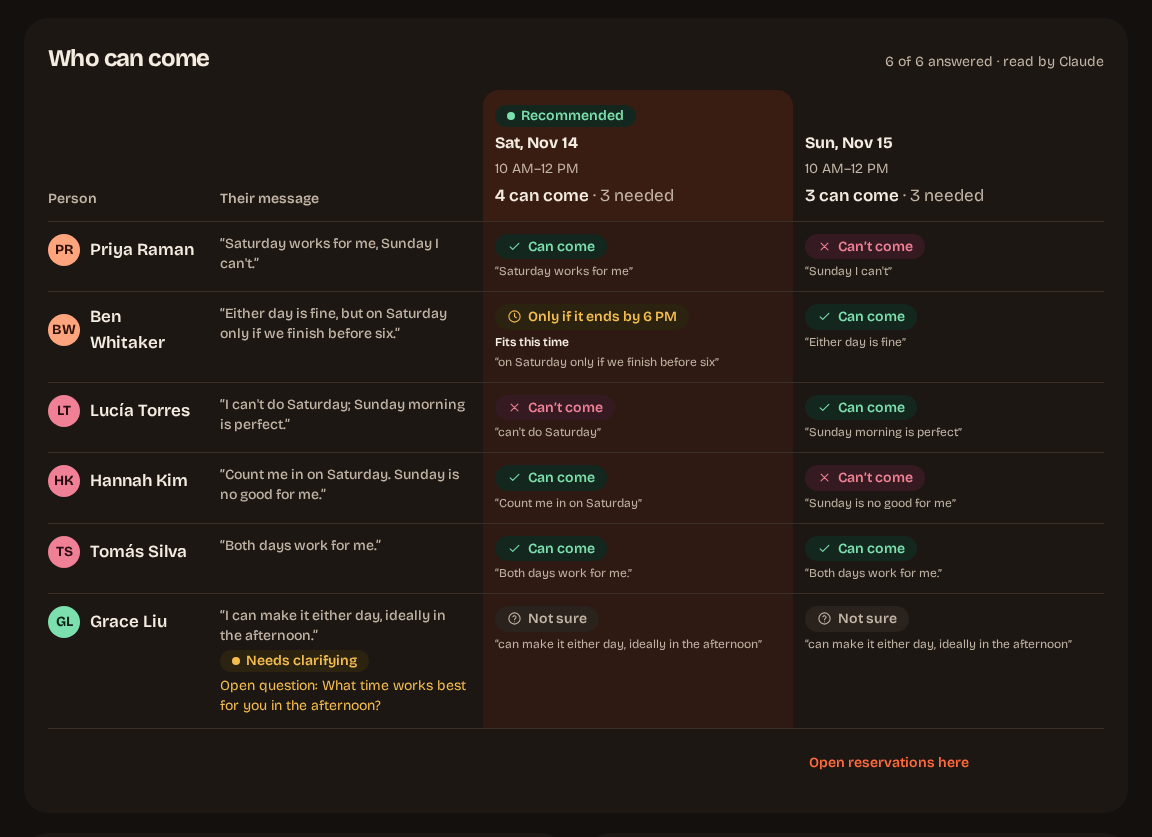
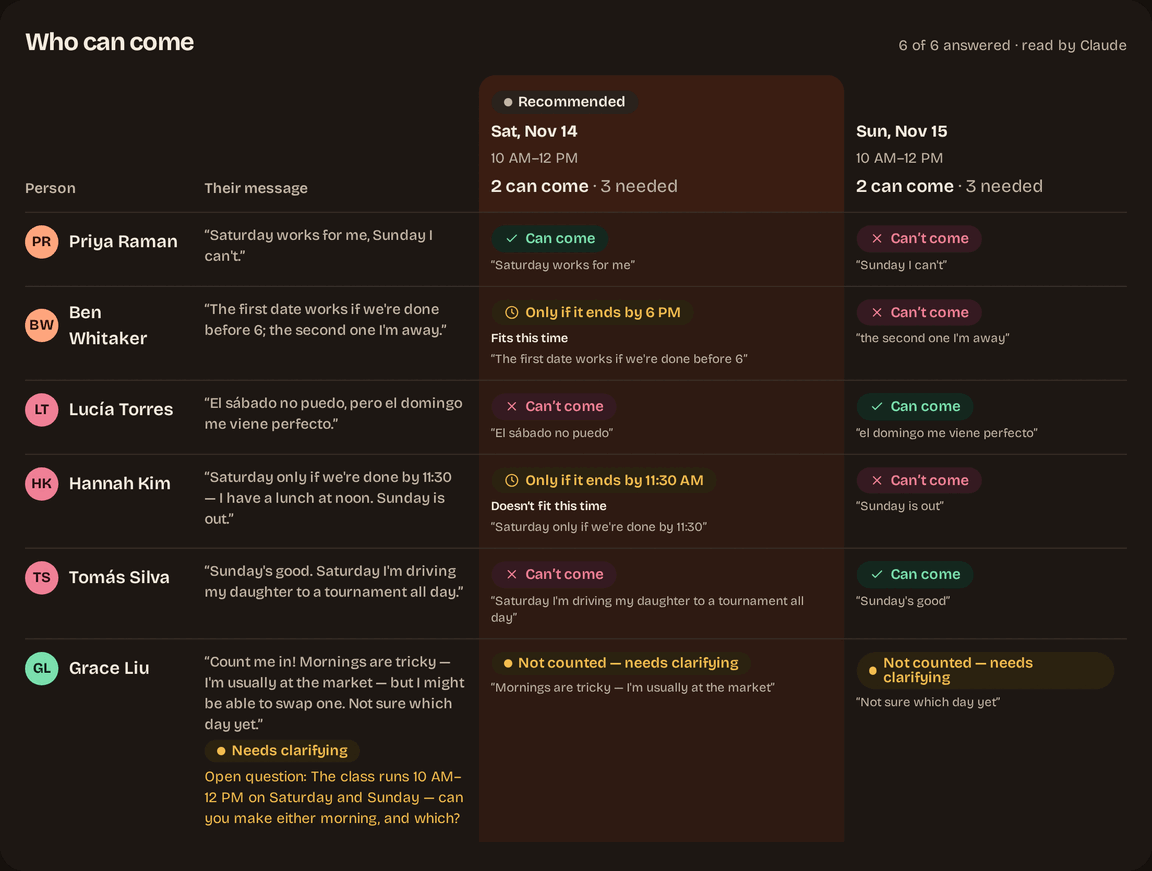
docs: describe the sketchbook landing and refresh the README screenshots
DESIGN.md gains the paper tokens, the kiln and paper sections, the drawing
rules, the drawing motion and the new link preview. docs/images comes from
web/scripts/capture.mjs: the new landing and Iris's class instead of the old
pottery workshop.

diff --git a/DESIGN.md b/DESIGN.md
@@ -30,6 +30,11 @@ is dark only (`color-scheme: dark`).
 | No glaze | `no` / `no-wash` | `#f08096` / `#351a21` | Can't come, cancelled, field errors |
 | Attention | `attention` / `attention-wash` | `#f4bd4f` / `#2b2210` | Something needs the organizer |
 | Avatars | `avatar-{amber,sky,pink,mint,lilac,peach}` and `-ink` | light / dark pairs | Initials, picked by a hash of the name |
+| Paper | `paper` / `paper-deep` / `paper-rule` | `#f4ece0` / `#ebe1d2` / `#d6c8b4` | The landing's sketchbook pages; their hairlines |
+| Charcoal | `charcoal` | `#14100d` | Text, rules and strokes on paper |
+| Graphite | `graphite` / `graphite-soft` | `#5b4a3d` / `#6b5a4c` | Secondary and tertiary text on paper; the measuring ruler |
+| Ember ink | `ember-ink` | `#a83c16` | Ember as text or a small mark on paper (the FAQ plus) |
+| Composer | `composer` | `#241d18` | The landing chat's footer and the browser frame behind a screenshot |
 
 `web/src/components/ui/tone.ts` maps the five status tones (`neutral`, `hold`,
 `paid`, `cancel`, `attention`) to text, wash and fill classes; workshop status
@@ -39,6 +44,9 @@ confirmed paid, cancelled cancel).
 Contrast (WCAG): ink on canvas 16.2:1, ink-soft on surface-muted 7.8:1,
 ink-faint on surface-muted 5.4:1, on-brand on ember 6.7:1, each glaze on its
 wash at least 6.2:1, ember on canvas 6.7:1, line-strong on surface-muted 3.2:1.
+On paper: charcoal 16.2:1, graphite 7.2:1, graphite-soft 5.6:1, ember-ink
+5.4:1. Ember itself is 2.4:1 on paper, so on paper it is only ever a stroke or
+a fill behind on-brand text, never text.
 
 Radii: `tile` 1.5rem, `control` 1rem; buttons, pills, chips and segments are
 fully round; chat bubbles are `rounded-3xl` with one tucked corner. Nothing
@@ -54,10 +62,15 @@ uses a shadow: depth comes from the surface steps. Easing: `--ease-out`
   tracking -0.025em, `text-wrap: balance`.
 - Scale: `text-display` `clamp(2.75rem, 9.5vw, 6rem)` / 0.92, `text-head`
   `clamp(2rem, 5vw, 3.5rem)` / 1, `text-lead`
-  `clamp(1.25rem, 1.1rem + 0.6vw, 1.5rem)` / 1.3.
+  `clamp(1.25rem, 1.1rem + 0.6vw, 1.5rem)` / 1.3. The landing adds `text-hero`
+  `clamp(3.25rem, 13.6vw, 6rem)` / 0.9 for the h1, `text-section`
+  `clamp(2.25rem, 6.4vw, 4rem)` / 0.95 for section headings, `text-intro`
+  `clamp(1.125rem, 1rem + 0.4vw, 1.3125rem)` / 1.4 beside them and
+  `text-landing-lead` `clamp(1.1875rem, 1.05rem + 0.6vw, 1.5rem)` / 1.32.
 - **`shout`**: 800 weight, 75% width, tracking -0.02em, uppercase. Used for the
-  landing headlines (`text-display`, `text-head`), the event title on the brand
-  tile and the "It's on" moment. `display` (-0.03em) and `wide` (-0.02em) set
+  landing headlines (`text-hero`, `text-section`), the event title on the brand
+  tile and the "It's on" moment; with `normal-case` it sets amounts and the
+  "4 of 4 records match PayPal" line. `display` (-0.03em) and `wide` (-0.02em) set
   the display family with tighter tracking; `semiwide` sets only the family.
 - Prices, counts and times use `tabular-nums`.
 
@@ -68,9 +81,9 @@ All in `web/src/components/ui/`, exported from its `index.ts`.
 | Component | What it is for |
 |---|---|
 | `Tile`, `TileLabel` | The unit of every screen: `surface`, `muted`, or `brand` (the event hero; focus rings turn on-brand inside it). |
-| `Button`, `ButtonLink` | `primary` (ember, on-brand text), `secondary`, `quiet`, `danger`, `demo`, `inverse`. `sm`/`md` are at least 44px tall, `lg` 56px. A busy button keeps focus with `aria-disabled`; a busy submit is disabled so Enter cannot send twice. |
+| `Button`, `ButtonLink` | `primary` (ember, on-brand text), `secondary`, `quiet`, `danger`, `demo`, `inverse`, and for ember backgrounds `ink` (on-brand fill, ink text) and `outline` (2px on-brand border). `sm`/`md` are at least 44px tall, `lg` 56px. A busy button keeps focus with `aria-disabled`; a busy submit is disabled so Enter cannot send twice. |
 | `Pill`, `DemoTag` | Short status with a dot, in a tone's wash; the text is always there. |
-| `VerdictChip` | One person's answer for one date: icon plus words, paid glaze (can come), maybe (conditional), no (can't), muted (not sure). |
+| `VerdictChip` | One person's answer for one date: icon plus words, paid glaze (can come), maybe (conditional), no (can't), muted (not sure). `size="sm"` (13px) inside chat bubbles. |
 | `Avatar`, `AvatarStack` | Initials in a colour chosen by name; the stack is one labelled image for screen readers. |
 | `Meter` | Progress to "it's on": paid glaze then hold glaze on a `surface-muted` track, a 3px ink line at the number needed, a caption ("2 more and it's on") and an sr-only summary. The `interest` variant shows who can come in `ink-faint`. |
 | `Stat` | Label, big number, note. |
@@ -79,7 +92,7 @@ All in `web/src/components/ui/`, exported from its `index.ts`.
 | `SegmentedControl` | Native radios as segments; the chosen one is ember with on-brand text. |
 | `Field`, `inputClass`, `describedBy` | Labelled inputs with hint and error wired to `aria-describedby`; invalid fields turn to the no glaze. |
 | `Icon` | One family of authored 24px stroke icons (1.75 stroke). |
-| `Logo`, `LogoMark` | The bowl: an ember half-disc with a canvas rim line and a bone lid line, beside the 800-weight wordmark. |
+| `Logo`, `LogoMark` | The bowl: an ember half-disc with a canvas rim line and a bone lid line, beside the 800-weight wordmark; `size` and `mark` scale it (the landing header uses 22px type and a 30px bowl). |
 
 Product compositions built from them:
 
@@ -103,6 +116,59 @@ Product compositions built from them:
   question in a muted bubble; centred `Pill` notices; and the ember "It's on"
   card in `shout`, marked "Simulated here: no money moved."
 
+## The landing: kiln and sketchbook
+
+The landing (`web/src/pages/Home.tsx`, sections in `web/src/components/home/`)
+alternates dark **kiln** sections with bone **paper** pages, as if a
+sketchbook lay open on the studio floor. Order: hero, sourced figures, See it
+work (paper), Claude finds the date, The money comes last (paper), PayPal for
+real, the MCP assistant (paper), For judges, the FAQ (paper), the ember
+closing band and the footer.
+
+- **Layout.** `wrap` holds a 80rem column inside a `--gutter` of
+  `clamp(1rem, 4.2vw, 4rem)`; desktop compositions sit on 12 columns with a
+  2rem gap, phone layouts stack. `section-pad` gives every section
+  `clamp(4rem, 9vw, 7.5rem)` above and below.
+- **Paper pages** (`PaperSection`) are `paper grain`, `rounded-sheet`
+  (1.75rem) and inset `clamp(0.5rem, 1.4vw, 1.25rem)` from the viewport edge.
+  `grain` lays a multiplied fractal-noise SVG at half opacity behind the
+  content. `paper` turns text charcoal, focus rings charcoal and selection
+  charcoal on bone. Anything dark placed on paper (the chat, a screenshot
+  frame, the terminal, the receipt) carries `kiln`, which restores ink text,
+  ember focus rings and ember selection inside it.
+- **The hero sheet** is a paper page that bleeds off the right edge on
+  desktop (square right corners) and runs full width on a phone. It carries
+  the class's page head (title with an ember underline, place, price, cost),
+  the seated figure, and the live chat, which overhangs the sheet's left edge
+  by 2.25rem and sits above the figure (`z-[2]`).
+- **Screenshots** of the real demo live in `web/src/assets/shots/` as WebP
+  (at most 1600px wide and 200 KB) and sit in CSS frames: a browser frame
+  with a lock and a label, and a phone with a status bar and island. They are
+  lazy, carry width and height, and say in their alt text what the screen
+  shows. `web/scripts/capture.mjs <base-url>` walks the demo with Playwright
+  and rewrites them, along with the README images in `docs/images/`.
+- **Section heads** are a `shout` `text-section` h2 with an intro paragraph
+  beside it (columns 8 to 12) or under it when stacked. No eyebrows or
+  kickers above them.
+
+### Drawing rules
+
+The drawings are authored inline SVG in `web/src/components/home/Drawings.tsx`:
+the seated figure, the page-head underline, the hand-drawn arrow, the six
+easels and the charcoal stick.
+
+- Charcoal gesture lines with round caps and joins, 1 to 3.4px, some at 40 to
+  80% opacity for construction strokes; graphite for the measuring ruler and
+  for empty easels (dashed); one ember line per drawing, the gesture that
+  matters (the figure's spine, the stroke the charcoal stick is making), and
+  ember canvases with an on-brand mark for reserved easels.
+- A drawing that carries meaning is `role="img"` with a label that says what
+  it shows; a decorative one (arrows, underline) is `aria-hidden`.
+- Drawings are never filled shapes or icons; icons stay in `Icon`. No
+  gradients, no shadows.
+- Arrows point from a caption to the screenshot it explains and show only on
+  desktop.
+
 ## Motion
 
 - `rise` (420ms, `--ease-out`, fade up 10px from 98% scale) brings in chat
@@ -110,6 +176,13 @@ Product compositions built from them:
 - The `Meter` fill animates its width over 700ms; buttons ease their
   background in 200ms and press down 1px; loading skeletons use
   `animate-pulse`.
+- The landing's one authored moment is drawing: the hero figure's strokes
+  draw themselves in sequence (`sketch-line`, `pathLength` 1, 900ms each,
+  38ms apart, the ember spine last) and the reserved easels' canvases rise in
+  as they scroll into view (`easel-canvas`, a scroll-driven `view()`
+  timeline where supported, static otherwise). Both live inside
+  `prefers-reduced-motion: no-preference`; without it the drawings are simply
+  there.
 - Under `prefers-reduced-motion: reduce` a global rule cuts every animation and
   transition to 0.01ms, runs each once and turns off smooth scrolling. The chat
   demo also shortens its scripted pauses to at most 20ms and scrolls without
@@ -120,7 +193,9 @@ Product compositions built from them:
 - **Never white on ember.** White on `#ff6a3d` is 2.9:1; every label, icon and
   selection on ember uses `on-brand` (6.7:1).
 - **44px targets**: buttons and segments are at least `min-h-11`, inputs
-  `min-h-12`.
+  `min-h-12`; on the landing every link and button in the header and main,
+  including the source links, nav links and copy buttons, is at least 44 by
+  44px, which `web/e2e/accessibility.spec.ts` checks at 390 and 1440px.
 - **Focus**: a 3px ember `:focus-visible` outline with a 3px offset (on-brand
   inside the brand tile); a skip link to `#main`; after a step completes,
   focus moves to the heading that describes the new state (`tabIndex={-1}`),
@@ -140,8 +215,12 @@ Product compositions built from them:
 ## Link previews
 
 - **Landing**: `/` carries `web/public/og-default.png` (1200×630): the bowl and
-  wordmark, "The class happens, or nobody pays." in `shout` with the second
-  line in ember, verdict chips and an ember "It's on".
+  wordmark, "Find the date that fills the class." in `shout` with the second
+  line in ember, the promise line under a rule, and a paper sheet bleeding
+  off the right edge with the class title, its ember underline, the seated
+  figure, a "Sat · Can come" chip and an ember "It's on".
+  `node web/scripts/og-default.mjs` renders it from
+  `web/scripts/og-default.html` with Playwright and the self-hosted font.
 - **Invites**: `/w/{token}` points `og:image` at `GET /api/v1/w/{token}/og.png`,
   drawn in Go by `internal/ogimage` in the same family: canvas, bowl and
   wordmark, a status pill (neutral "Finding the date" and "Reservations
